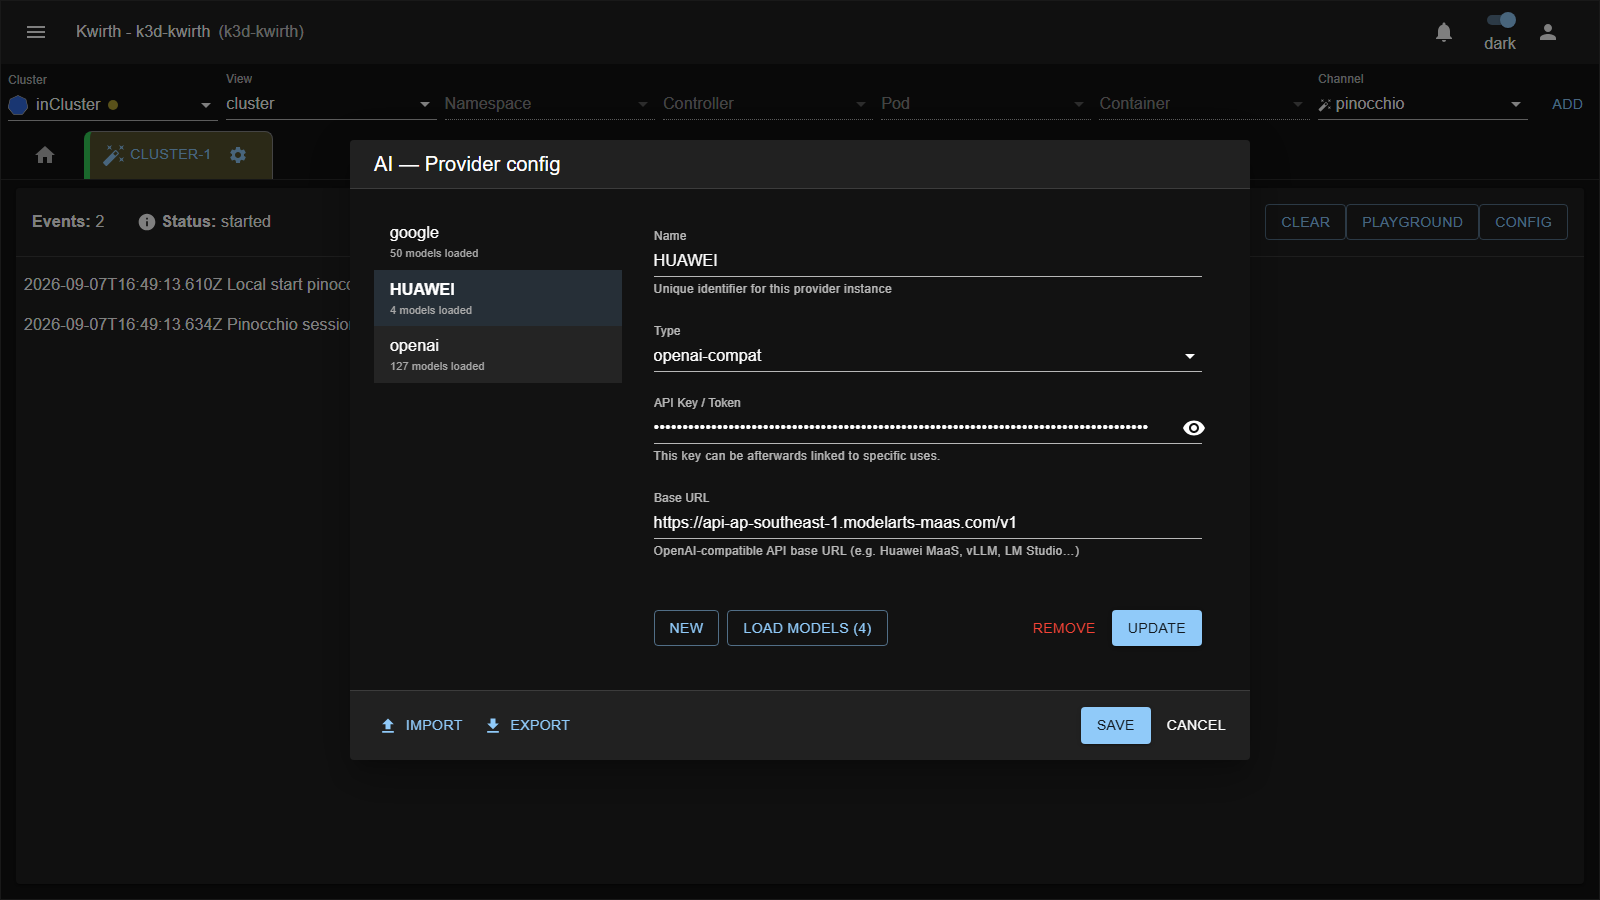
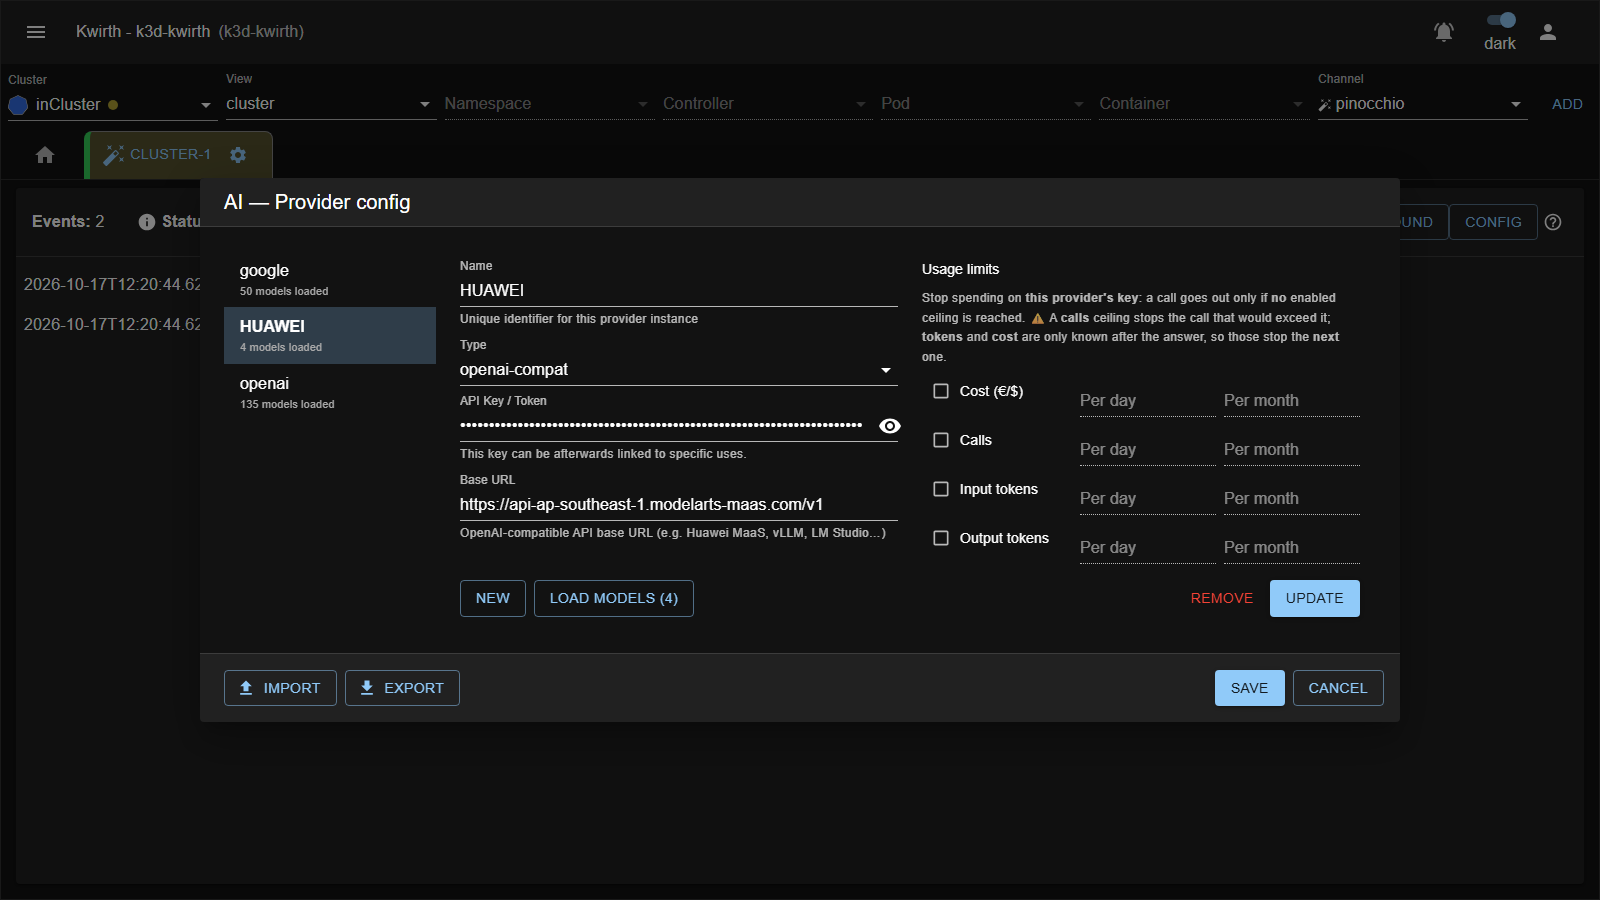
fix(common-ai): the AI config dialogs fit, so the button that applies the form is visible (0.5.72)
Reported as 'the limits do not persist': a daily ceiling of 3 raised to 30 came back as
3. The behaviour was correct and the diagnosis was looking in the wrong place. The
dialog's OK returns the LIST, and what is typed in the form only reaches that list
through the Add/Update button -- and that button had fallen below the fold. The dialog
was pinned at 78vh while the form kept growing, so the user filled it in, pressed OK, and
the edit had never been applied.

🔴 A form whose commit control cannot be seen is indistinguishable from a form that does
not save. Height here is not cosmetic: it is what decides whether the edit can be
committed at all.

Squeezing was not enough. Four units times two windows is the tallest block of the form,
and stacked under the credentials it did not fit in 720px however much was trimmed. So
the form is two columns now -- credentials left, budget right -- the dialog goes from
800/900px to 90vw/1200px and the list is pinned at 220px, which makes the limits block
COMPETE with the credentials instead of being chained to them.

Measured rather than eyeballed: at 1280x720 the body's scrollHeight - clientHeight is 0
in every case (3 providers, 11 LLMs, with and without a selection), and the form column
sits at ~410px against 538px available. ⚠ Those 538 are set by the LIST, which has its
own maxHeight and inner scroll -- that scrollbar is correct and was always there. What
had to go was the one hiding the button.
[…]

diff --git a/common-ai/src/front.tsx b/common-ai/src/front.tsx
@@ -105,7 +105,10 @@ const UsageLimitsEditor: React.FC<IUsageLimitsEditorProps> = (props: IUsageLimit
             const spent = (amounts: IUsageAmounts | undefined): string | undefined =>
                 amounts ? `${formatSpent(of(amounts))} so far` : undefined
             return (<Stack key={unit} direction='row' spacing={1} alignItems='flex-start'>
-                <FormControlLabel sx={{ width: '150px', mr: 0, mt: 0.5 }} control={
+                {/* flexShrink: 0 — inside the row the label box would otherwise shrink below its width
+                    and split 'Input tokens' into two lines, which costs the height the two columns were
+                    meant to save. */}
+                <FormControlLabel sx={{ width: '150px', flexShrink: 0, mr: 0, mt: 0.5 }} control={
                     <Checkbox size='small' checked={!!w.enabled} disabled={props.disabled}
                         onChange={e => patch(unit, { enabled: e.target.checked })} />
                 } label={<Typography variant='body2'>{label}</Typography>} />
@@ -268,10 +271,13 @@ const AiConfigLlm: React.FC<IAiConfigLlmProps> = (props: IAiConfigLlmProps) => {
                             }
                             {/* Three numbers on one line: a field each cost a whole row, and the rows are
                                 what pushed the Add/Update button out of sight. */}
-                            <Stack direction='row' spacing={1}>
-                                <TextField value={temperature} onChange={e => setTemperature(+e.target.value)} label='Temperature' variant='standard' type='number' sx={{ width: '28%' }} />
-                                <TextField value={inputCostPerMillion} onChange={e => setInputCostPerMillion(e.target.value === '' ? '' : +e.target.value)} label='Input cost /M' variant='standard' type='number' fullWidth inputProps={{ min: 0, step: 0.01 }} />
-                                <TextField value={outputCostPerMillion} onChange={e => setOutputCostPerMillion(e.target.value === '' ? '' : +e.target.value)} label='Output cost /M' variant='standard' type='number' fullWidth inputProps={{ min: 0, step: 0.01 }} />
+                            {/* The three share the row evenly with a floor that fits the longest label:
+                                a percentage width truncated 'Temperature' to 'Tempe…' once the form
+                                became a column half as wide. */}
+                            <Stack direction='row' spacing={1} sx={{ flexWrap: 'wrap' }}>
+                                <TextField value={temperature} onChange={e => setTemperature(+e.target.value)} label='Temperature' variant='standard' type='number' sx={{ flex: 1, minWidth: '110px' }} />
+                                <TextField value={inputCostPerMillion} onChange={e => setInputCostPerMillion(e.target.value === '' ? '' : +e.target.value)} label='Input cost /M' variant='standard' type='number' sx={{ flex: 1, minWidth: '110px' }} inputProps={{ min: 0, step: 0.01 }} />
+                                <TextField value={outputCostPerMillion} onChange={e => setOutputCostPerMillion(e.target.value === '' ? '' : +e.target.value)} label='Output cost /M' variant='standard' type='number' sx={{ flex: 1, minWidth: '110px' }} inputProps={{ min: 0, step: 0.01 }} />
                             </Stack>
                             <Stack direction='row' alignItems='center'>
                                 <Typography flex={1}>Use provider API Key (or enter a specific one)</Typography>

diff --git a/front/e2e/tests/capture-pinocchio-ai.spec.ts b/front/e2e/tests/capture-pinocchio-ai.spec.ts
@@ -30,10 +30,19 @@ test('capture ai-provider-config + ai-llm-config (dark)', async ({ page }) => {
     await page.getByRole('menuitem', { name: /^Start$/ }).click()
     await page.waitForTimeout(4000)
 
+    // 'AI providers' and 'AI models' live inside the COLLAPSIBLE 'AI' group of the channel's Config
+    // menu: it has to be expanded before they can be clicked.
+    const openAiConfig = async (item: RegExp) => {
+        await page.getByRole('button', { name: 'Config', exact: true }).click()
+        await page.waitForTimeout(400)
+        await page.getByRole('menuitem', { name: /^AI$/ }).click()
+        await page.waitForTimeout(500)
+        await page.getByRole('menuitem', { name: item }).click()
+        await page.waitForTimeout(1000)
+    }
+
     // 1) Providers: with an openai-compat selected, so Type + Base URL + Load models are visible.
-    await page.getByRole('button', { name: 'Config', exact: true }).click()
-    await page.getByRole('menuitem', { name: /^Provider$/ }).click()
-    await page.waitForTimeout(1000)
+    await openAiConfig(/^AI providers$/)
     const provDialog = page.getByRole('dialog')
     await provDialog.getByText(COMPAT_PROVIDER, { exact: true }).first().click()
     await page.waitForTimeout(800)   // margen para la animacion del dialogo
@@ -41,10 +50,12 @@ test('capture ai-provider-config + ai-llm-config (dark)', async ({ page }) => {
     await provDialog.getByRole('button', { name: /^cancel$/i }).click()
     await page.waitForTimeout(600)
 
-    // 2) LLMs.
-    await page.getByRole('button', { name: 'Config', exact: true }).click()
-    await page.getByRole('menuitem', { name: /^LLM$/ }).click()
-    await page.waitForTimeout(1200)
+    // 2) LLMs, with one selected: that is the state the form is in while it is being edited, and the
+    // one where the two columns — identity on the left, usage limits on the right — are both filled.
+    await openAiConfig(/^AI models$/)
+    const llmDialog = page.getByRole('dialog')
+    await llmDialog.locator('.MuiListItemButton-root').first().click()
+    await page.waitForTimeout(800)
     await page.screenshot({ path: `${MEDIA}/ai-llm-config.png` })
     await page.getByRole('dialog').getByRole('button', { name: /^cancel$/i }).click()
     await page.waitForTimeout(400)
